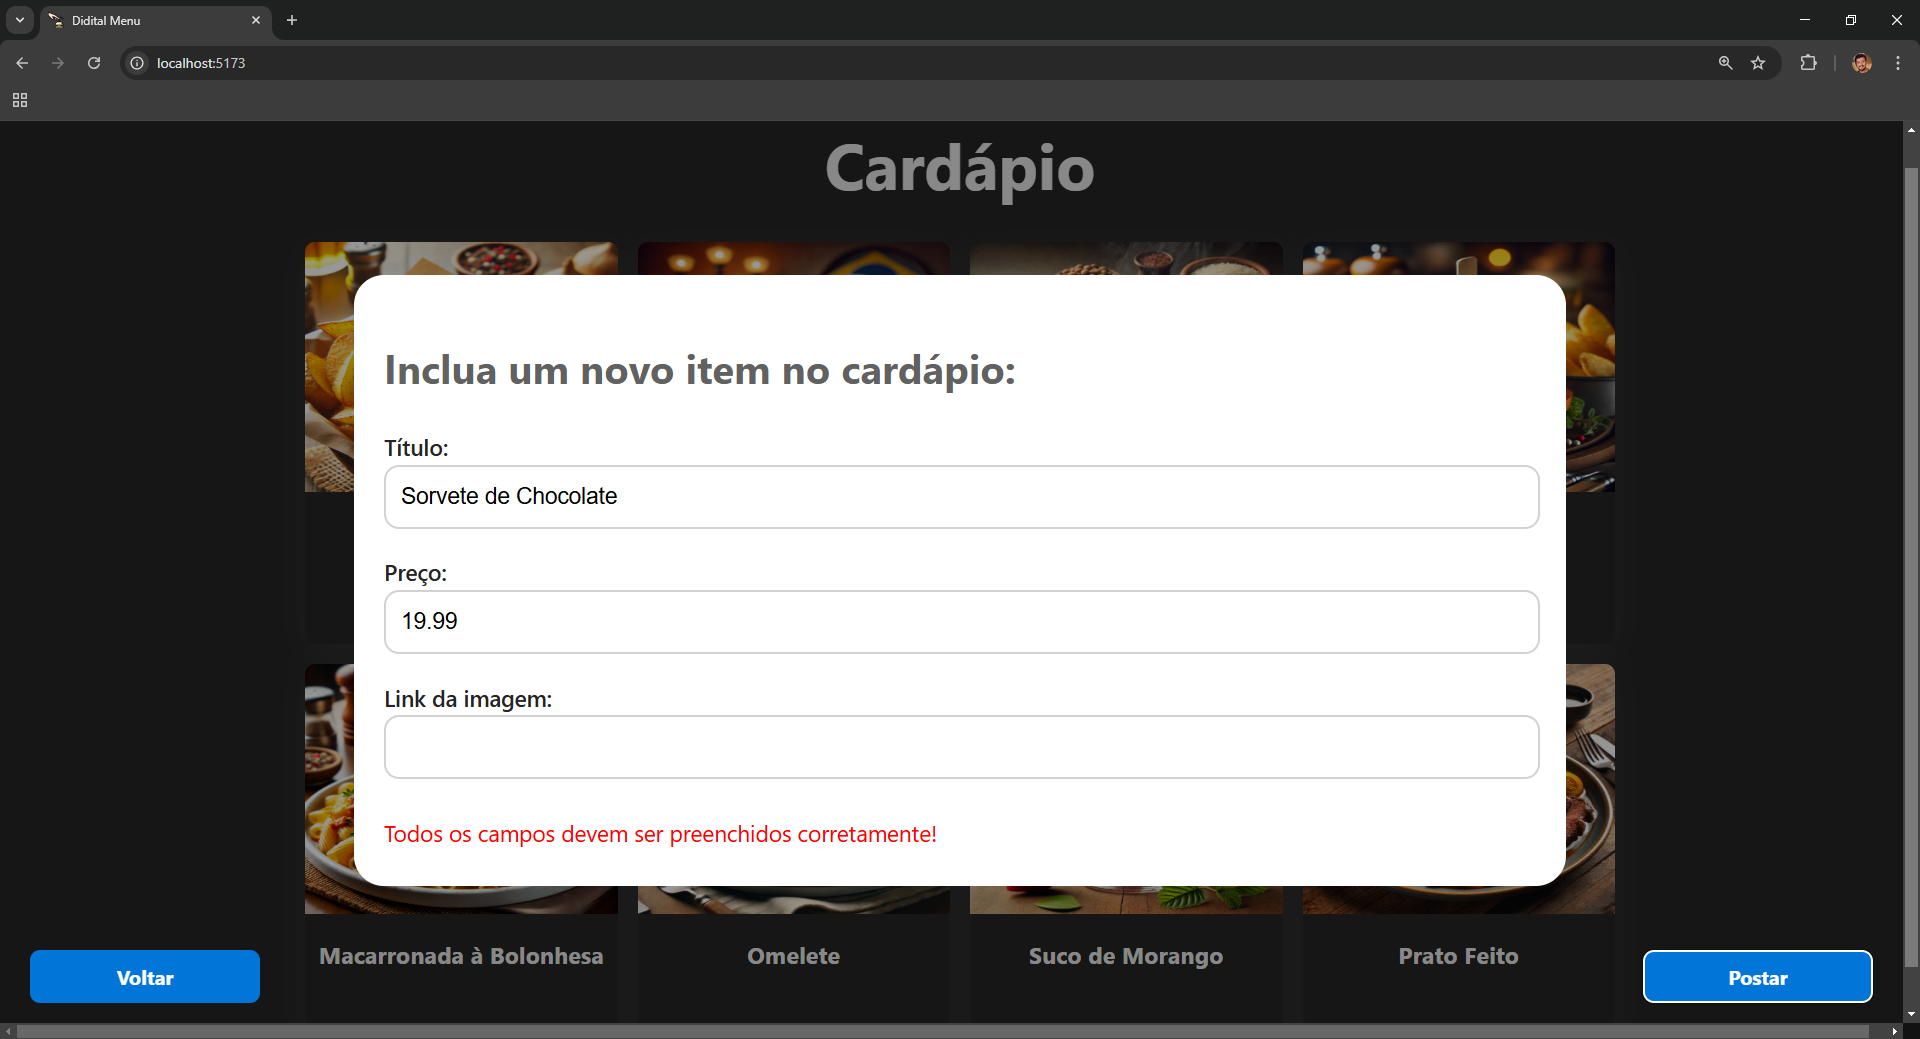
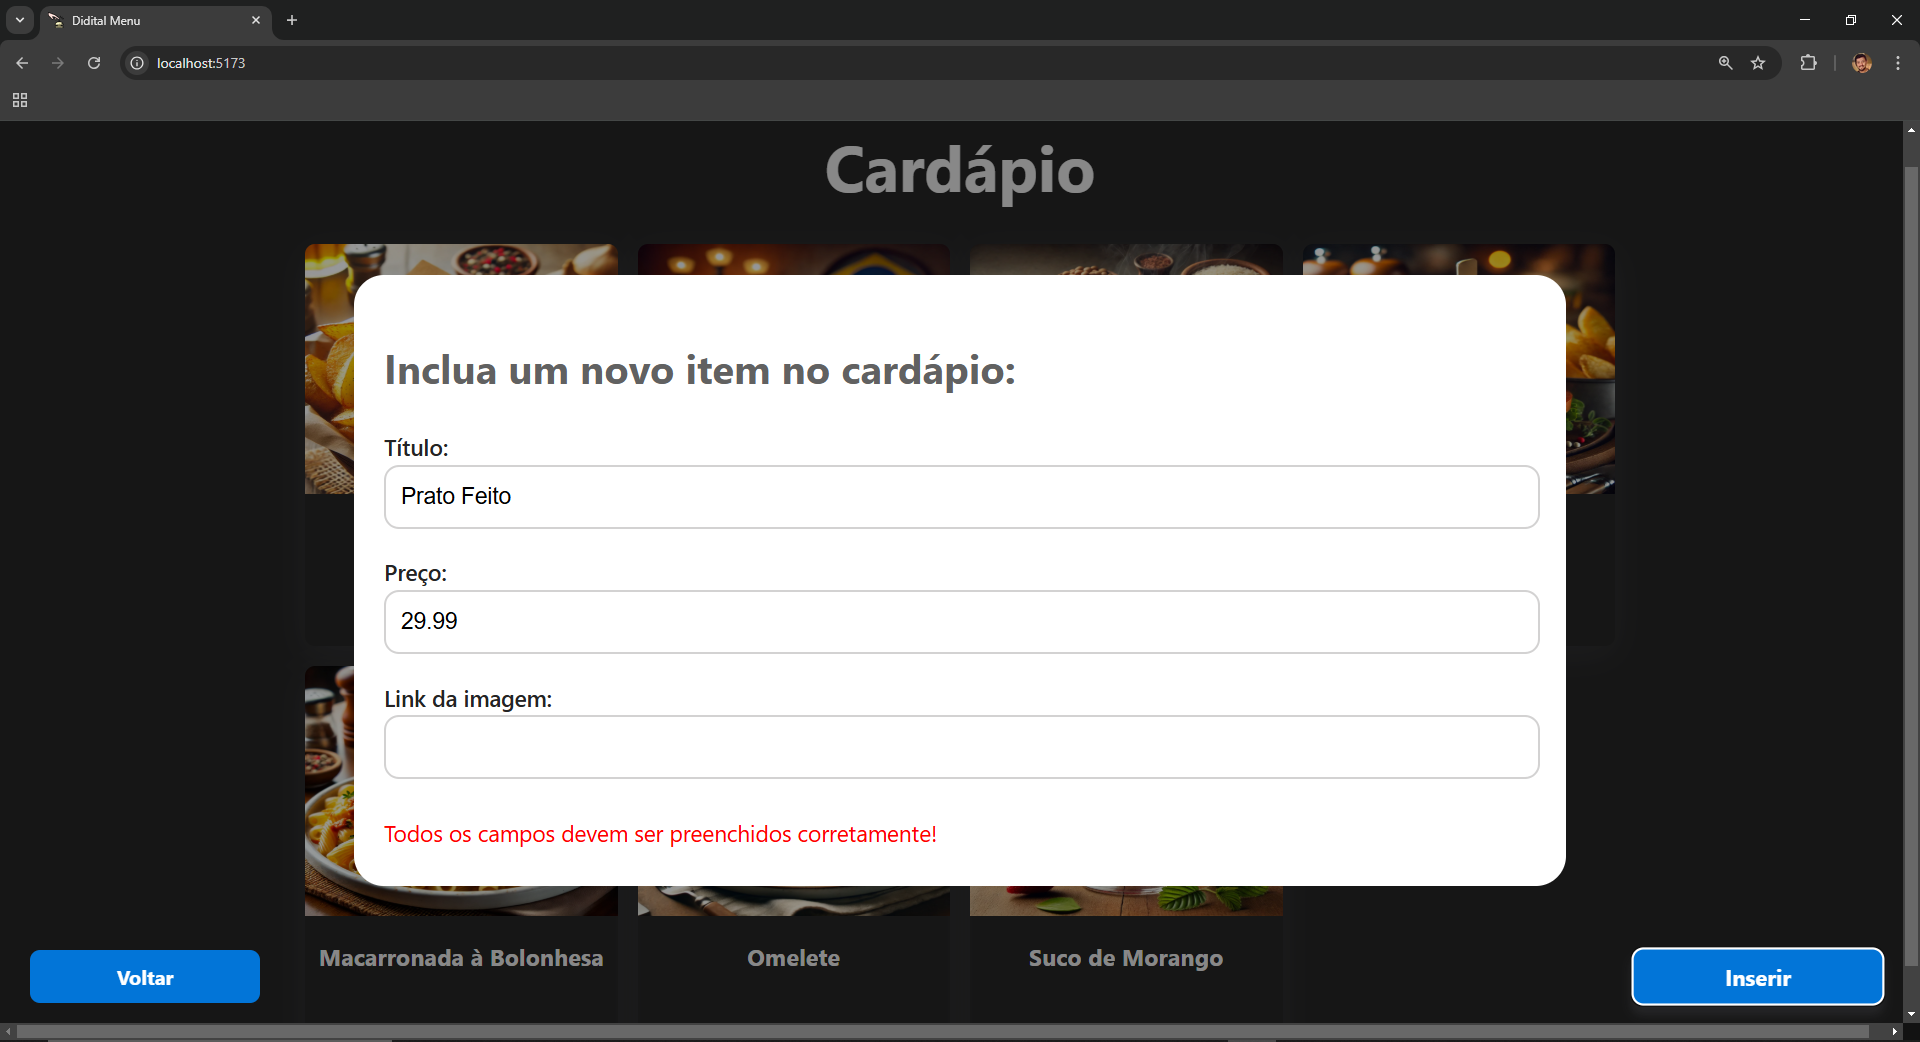
Update README.md and Refactoring form-modal.css and form-modal.tsx

diff --git a/Frontend/digitalMenu/src/components/form-modal/form-modal.tsx b/Frontend/digitalMenu/src/components/form-modal/form-modal.tsx
@@ -69,7 +69,7 @@ export function FormModal({ closeModal }: ModalProps) {
         {errorMessage && <p className="modal-error-message">{errorMessage}</p>}
         <div className="modal-button-group">
           <button onClick={submit} className="modal-btn-insert">
-            {isLoading ? "Postando..." : "Postar"}
+            {isLoading ? "Inserindo..." : "Inserir"}
           </button>
           <button onClick={closeModal} className="modal-btn-back">
           Voltar

diff --git a/README.md b/README.md
@@ -16,7 +16,7 @@ This guide provides a structured approach to developing a full-stack application
 This section details the construction of the application's backend using the <code>Java Spring</code> framework. The initial step involves creating a <code>Spring Boot</code> project and configuring the <code>PostgreSQL</code> database. Subsequently, the guide covers the creation of data models and <code>RESTful</code> controllers to manage <code>CRUD</code> operations within the application. The utilisation of essential libraries, such as <code>Spring Data JPA</code>, will be explored to streamline data access and manipulation.
 </p>
 
-## Project Stack:
+## Backend Project Stack:
 | Technology        | Version   | Description                                 |
 |-------------------|-----------|---------------------------------------------|
 | ✒ IntelliJ IDEA  | `2024.3`  | Integrated Development Environment (IDE)    |
@@ -25,18 +25,22 @@ This section details the construction of the application's backend using the <co
 | 🐦 Maven          | `v3.9.9`  | Build automation and dependency management  |
 | 🐘 PostgreSQL     | `17`      | Relational database management system       |
 | 👩🚀 Postman        | `11.19`   | API testing and development tool            |
+
 ***
-## Dependencies:
-| Dependency              | Category        | Description                                                                                                                          |
-|-------------------------|-----------------|--------------------------------------------------------------------------------------------------------------------------------------|
-| 🛠 Spring Boot DevTools | Developer Tools | Provides fast application restarts, LiveReload, and configurations for enhanced development experience                               |
-| 🌐 Spring Web           | Web             | Build web, including RESTful, applications using Spring MVC. Uses Apache Tomcat as the default embedded container                    |
-| 💾 Spring Data JPA      | SQL             | Persist data in SQL stores with Java Persistence API using Spring Data and Hibernate                                                 |
-| 🐘 PostgreSQL Driver    | SQL             | A JDBC and R2DBC driver that allows Java programs to connect to a PostgreSQL database using standard, database independent Java code |
-| 🗝 dotenv-java          | Configuration   | Loads environment variables from a `.env` file into the application, aiding in secure configuration management                       |
-| 🦅 Flyway Migration     | SQL             | Version control for your database so you can migrate from any version (incl. an empty database) to the latest version of the schema  |
-| 🛢 H2 Database Engine   | SQL             | Provides an in-memory and lightweight relational database for development and testing purposes                                       |
+
+## Backend Dependencies:  
+| Dependency              | Category        | Description                                                                                                                                  |
+|-------------------------|-----------------|----------------------------------------------------------------------------------------------------------------------------------------------|
+| 🛠 Spring Boot DevTools | Developer Tools | Provides fast application restarts, LiveReload, and configurations for enhanced development experience                                       |
+| 🌐 Spring Web           | Web             | Build web, including RESTful, applications using Spring MVC. Uses Apache Tomcat as the default embedded container                            |
+| 💾 Spring Data JPA      | SQL             | Persist data in SQL stores with Java Persistence API using Spring Data and Hibernate                                                         |
+| 🐘 PostgreSQL Driver    | SQL             | A JDBC and R2DBC driver that allows Java programs to connect to a PostgreSQL database using standard, database-independent Java code         |
+| 🗝 dotenv-java          | Configuration   | Loads environment variables from a `.env` file into the application, aiding in secure configuration management                               |
+| 🦅 Flyway Migration     | SQL             | Provides version control for your database, allowing seamless migrations from any version, including an empty database, to the latest schema |
+| 🛢 H2 Database Engine   | SQL             | Provides an in-memory and lightweight relational database for development and testing purposes                                               |
+
 ***
+
 ### Part 2 - [Frontend Development with React and TypeScript](https://github.com/souzafcharles/Java-Spring-React-Fullstack/tree/main/Frontend/digitalMenu):
 <p align="justify">
 This section focuses on developing the application's frontend using the <code>React</code> library and <code>TypeScript</code>. The process includes creating <code>React</code> components and leveraging <code>React Hooks</code> to implement the application's functionalities. The guide also explores the use of <code>TypeScript</code> to enhance code maintainability. Furthermore, it details the connection of the frontend to the backend (developed in Part 1) using <code>Axios</code> for <code>HTTP</code> requests and <code>React Query</code> for fetching, caching, synchronising, and updating server state within the application.
@@ -52,21 +56,27 @@ This section focuses on developing the application's frontend using the <code>Re
 | 📦 Node.js            | `18.x`     | JavaScript runtime environment                  |
 
 ***  
+
 ## Frontend Dependencies:  
-| Dependency              | Category         | Description                                              |
-|-------------------------|------------------|----------------------------------------------------------|
-| ⚛ React                | Core             | Library for building user interfaces                     |
-| ⚛ React DOM            | Core             | Renders React components in the browser                  |
-| 📜 TypeScript           | Core             | Enables type-checking and development with TypeScript    |
-| ⚙ Vite Plugin React    | Build Tools      | Plugin to support React in Vite projects                 |
-| ✅ ESLint               | Development      | Linter tool to ensure code quality                       |
-| 🎯 TypeScript ESLint    | Development      | Integrates TypeScript with ESLint                        |
-| 🔍 @types/react         | Type Definitions | Provides TypeScript definitions for React                |
-| 🔍 @types/react-dom     | Type Definitions | Provides TypeScript definitions for React DOM            |
-| 🌍 Globals              | Development      | Provides global variables and functions for ESLint rules |
-| 🔄 React Hooks ESLint   | Development      | Ensures proper usage of React Hooks                      |
-| 🔧 React Refresh ESLint | Development      | Provides linting for Vite’s fast-refresh mechanism       |
+| Dependency               | Category         | Description                                              |
+|--------------------------|------------------|----------------------------------------------------------|
+| ⚛ React                 | Core             | Library for building user interfaces                     |
+| ⚛ React DOM             | Core             | Renders React components in the browser                  |
+| 📜 TypeScript            | Core             | Enables type-checking and development with TypeScript    |
+| ⚙ Vite Plugin React     | Build Tools      | Plugin to support React in Vite projects                 |
+| ✅ ESLint                | Development      | Linter tool to ensure code quality                       |
+| 🎯 TypeScript ESLint     | Development      | Integrates TypeScript with ESLint                        |
+| 🔍 @types/react          | Type Definitions | Provides TypeScript definitions for React                |
+| 🔍 @types/react-dom      | Type Definitions | Provides TypeScript definitions for React DOM            |
+| 🌍 Globals               | Development      | Provides global variables and functions for ESLint rules |
+| 🔄 React Hooks ESLint    | Development      | Ensures proper usage of React Hooks                      |
+| 🔧 React Refresh ESLint  | Development      | Provides linting for Vite’s fast-refresh mechanism       |
+| 🔄 @tanstack/react-query | API Management   | Data fetching and caching for React applications         |
+| 🔗 Axios                 | API Management   | Promise-based HTTP client for making API requests        |
+
 ***
+
 ▶ **Tutorial Video kipperDev**: [Part 1: Backend Development with Java Spring and PostgreSQL](https://www.youtube.com/watch?v=lUVureR5GqI&ab_channel=FernandaKipper%7CDev)</br>
 ▶ **Tutorial Video kipperDev**: [Part 2: Frontend Development with React and TypeScript](https://www.youtube.com/watch?v=WHruc3_2z68&ab_channel=FernandaKipper%7CDev)
+
 ***

diff --git a/Frontend/digitalMenu/README.md b/Frontend/digitalMenu/README.md
@@ -115,7 +115,7 @@ VITE v6.0.11  ready in 418 ms
 
 ### 3. Interface and Card Component:
 
-3.1. Interface Creation:
+#### 3.1. Interface Creation:
 
 - **Path:** /src/interface/;
 - **Purpose:** Define the FoodData interface to represent the structure of food items;
@@ -157,26 +157,6 @@ export interface FoodData {
 - Style the image with:
   - Top-rounded corners and a fixed size of `250px` x `200px`.
 
-### 3.4. Card Grid Layout and Data Rendering:
-
-- **Path:** `src/components/card/card.tsx`;
-- **Purpose:** Display food items dynamically from backend data in a structured grid layout;
-- **Requirements:**
-  - The card grid should use `grid-template-columns: 1fr 1fr 1fr 1fr;` to display four cards per row;
-  - Each card must contain:
-    - **Image:** Display the food item image (`image` prop);
-    - **Title:** Show the food name (`title` prop);
-    - **Price:** Display formatted price (`R$ {price}`) in bold;
-  - The card component should have a defined width (`250px`) and a shadow effect for visual separation;
-- **Data Handling and Rendering:**
-  - The `useFoodData` hook fetches food items from `http://localhost:8080/foods`;
-  - The data array is iterated using `.map()` to render multiple `Card` components;
-  - If no data is available, the grid should remain empty until the fetch completes;
-  - The structure ensures responsiveness, adjusting column count dynamically on smaller screens.
-- **Home Screen with Displayed Items:**  
-  Below is an example of the home screen displaying the inserted food items:  
-  ![Home Screen with Items](https://github.com/souzafcharles/Java-Spring-React-Fullstack/blob/main/Frontend/digitalMenu/public/home-inserted.png)
-
 ---
 
 ### 4. Form Modal Component:
@@ -212,50 +192,6 @@ export interface FoodData {
     - **Insert button:** Fixed to the bottom right corner;
     - **Back button:** Fixed to the bottom left corner;
     - Add hover effects to both buttons for scaling and shadow effects.
-
-### 4.5. Form Validation and Error Handling:
-
-- **Path:** `src/components/create-modal/FormModal.tsx`;
-- **Purpose:** Ensure all form fields are correctly filled before submission;
-- **Requirements:**
-  - Validate that all required fields (`title`, `price`, and `image`) are filled;
-  - Display an error message if any field is empty or invalid;
-  - **Error Message:** `"Todos os campos devem ser preenchidos corretamente!"`;
-  - The validation should trigger when clicking the `"Postar"` button;
-- **Error Styling:**
-  - **Text Color:** Red (`#FF0000`);
-  - **Font Size:** `18px`;
-  - **Position:** Below the form inputs;
-- **Form Behavior:**
-  - If any field is missing, the form should prevent submission;
-  - If all fields are filled correctly, submit the data and close the modal;
-  - The error message should disappear when the user corrects the input;
-- **Screen Modal Form Error:**
-  - Below is an example of how the error message should appear when validation fails:  
-    ![Modal Form Error](https://github.com/souzafcharles/Java-Spring-React-Fullstack/blob/main/Frontend/digitalMenu/public/modal-error.png)
-
-### 4.6. Item Insertion Form:
-
-- **Path:** `src/components/card/FormModal.tsx`;
-- **Purpose:** Allow users to add a new item to the menu by sending a `POST` request to the backend;
-- **Requirements for `FormModal.tsx`:**;
-  - Create a local state to store field values:
-    - **title:** Name of the item;
-    - **price:** Price of the item;
-    - **image:** URL of the item’s image;
-    - **errorMessage:** Error message if fields are not properly filled;
-  - Create a reusable `Input` component to capture user input;
-  - Implement the `submit()` function that:
-    - Validates if all fields are correctly filled;
-    - Creates a `FoodData` object and sends it via `mutate()`;
-  - Use the `useFoodDataMutate()` hook for data mutation and submission to the backend;
-  - Automatically close the modal after a successful insertion (`useEffect` dependent on `isSuccess`);
-- **Form Completion Example:**  
-  Below is an example of the form being correctly filled before submission:  
-  ![Form Completion](https://github.com/souzafcharles/Java-Spring-React-Fullstack/blob/main/Frontend/digitalMenu/public/modal-insert.png)
-- **Home Screen with New Item Inserted:**  
-  After successfully inserting the new item, it should appear on the home screen:  
-  ![Home Screen Updated](https://github.com/souzafcharles/Java-Spring-React-Fullstack/blob/main/Frontend/digitalMenu/public/home-inserted.png)
 
 ---
 
@@ -343,3 +279,69 @@ export interface FoodData {
   - Maintain `100%` width and height for flexible scaling;
   - Use embedded base64 image data to reduce external asset dependencies;
   - Ensure compatibility across browsers for rendering.
+
+---
+
+### 10. Card Grid Layout and Data Rendering:
+
+- **Path:** `src/components/card/card.tsx`;
+- **Purpose:** Display food items dynamically from backend data in a structured grid layout;
+- **Requirements:**
+  - The card grid should use `grid-template-columns: 1fr 1fr 1fr 1fr;` to display four cards per row;
+  - Each card must contain:
+    - **Image:** Display the food item image (`image` prop);
+    - **Title:** Show the food name (`title` prop);
+    - **Price:** Display formatted price (`R$ {price}`) in bold;
+  - The card component should have a defined width (`250px`) and a shadow effect for visual separation;
+- **Data Handling and Rendering:**
+  - The `useFoodData` hook fetches food items from `http://localhost:8080/foods`;
+  - The data array is iterated using `.map()` to render multiple `Card` components;
+  - If no data is available, the grid should remain empty until the fetch completes;
+  - The structure ensures responsiveness, adjusting column count dynamically on smaller screens.
+- **Home Screen with Displayed Items:**  
+  Below is an example of the home screen displaying the food items:  
+  ![Home Screen with Items](https://github.com/souzafcharles/Java-Spring-React-Fullstack/blob/main/Frontend/digitalMenu/public/home.png)
+
+  ### 11. Form Validation and Error Handling:
+
+- **Path:** `src/components/create-modal/FormModal.tsx`;
+- **Purpose:** Ensure all form fields are correctly filled before submission;
+- **Requirements:**
+  - Validate that all required fields (`title`, `price`, and `image`) are filled;
+  - Display an error message if any field is empty or invalid;
+  - **Error Message:** `"Todos os campos devem ser preenchidos corretamente!"`;
+  - The validation should trigger when clicking the `"Inserir"` button;
+- **Error Styling:**
+  - **Text Color:** Red (`#FF0000`);
+  - **Font Size:** `18px`;
+  - **Position:** Below the form inputs;
+- **Form Behavior:**
+  - If any field is missing, the form should prevent submission;
+  - If all fields are filled correctly, submit the data and close the modal;
+  - The error message should disappear when the user corrects the input;
+- **Screen Modal Form Error:**
+  - Below is an example of how the error message should appear when validation fails:  
+    ![Modal Form Error](https://github.com/souzafcharles/Java-Spring-React-Fullstack/blob/main/Frontend/digitalMenu/public/modal-error.png)
+
+### 12. Item Insertion Form:
+
+- **Path:** `src/components/card/FormModal.tsx`;
+- **Purpose:** Allow users to add a new item to the menu by sending a `POST` request to the backend;
+- **Requirements for `FormModal.tsx`:**;
+  - Create a local state to store field values:
+    - **title:** Name of the item;
+    - **price:** Price of the item;
+    - **image:** URL of the item’s image;
+    - **errorMessage:** Error message if fields are not properly filled;
+  - Create a reusable `Input` component to capture user input;
+  - Implement the `submit()` function that:
+    - Validates if all fields are correctly filled;
+    - Creates a `FoodData` object and sends it via `mutate()`;
+  - Use the `useFoodDataMutate()` hook for data mutation and submission to the backend;
+  - Automatically close the modal after a successful insertion (`useEffect` dependent on `isSuccess`);
+- **Form Completion Example:**  
+  Below is an example of the form being correctly filled before submission:  
+  ![Form Completion](https://github.com/souzafcharles/Java-Spring-React-Fullstack/blob/main/Frontend/digitalMenu/public/modal-insert.png)
+- **Home Screen with New Item Inserted:**  
+  After successfully inserting the new item, it should appear on the home screen:  
+  ![Home Screen Updated](https://github.com/souzafcharles/Java-Spring-React-Fullstack/blob/main/Frontend/digitalMenu/public/home-inserted.png)
